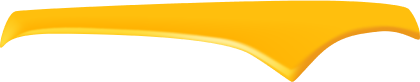
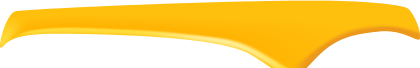
Make Your Burger 2st version edit pic paths

Changed region(s): [[0.0, 0.0, 1.0, 1.0]]

diff --git a/index.js b/index.js
@@ -368,15 +368,15 @@ cssStyle("body section.container",
     border-radius:30px;
 
     `)
-    addImg("/images/orderimages/cutiet.png","cutiet",1,"body section.container .secOrder div.order:nth-child(1)")
-    addImg("/images/orderimages/mayo.png","mayo",1,"body section.container .secOrder div.order:nth-child(2)")
-    addImg("/images/orderimages/onion.png","onion",1,"body section.container .secOrder div.order:nth-child(3)")
-    addImg("/images/orderimages/tomato.png","tomato",1,"body section.container .secOrder div.order:nth-child(4)")
-    addImg("/images/orderimages/cucumber.png","cucumber",1,"body section.container .secOrder div.order:nth-child(5)")
-    addImg("/images/orderimages/cheese.png","cheese",1,"body section.container .secOrder div.order:nth-child(6)")
-    addImg("/images/orderimages/salad.png","salad",1,"body section.container .secOrder div.order:nth-child(7)")
-    addImg("/images/orderimages/bun.png","bun",1,"body section.container .secOrder div.order:nth-child(8)")
-    addImg("/images/orderimages/bun2.png","bun2",1,"body section.container .secOrder div.order:nth-child(9)")
+    addImg("images/orderimages/cutiet.png","cutiet",1,"body section.container .secOrder div.order:nth-child(1)")
+    addImg("images/orderimages/mayo.png","mayo",1,"body section.container .secOrder div.order:nth-child(2)")
+    addImg("images/orderimages/onion.png","onion",1,"body section.container .secOrder div.order:nth-child(3)")
+    addImg("images/orderimages/tomato.png","tomato",1,"body section.container .secOrder div.order:nth-child(4)")
+    addImg("images/orderimages/cucumber.png","cucumber",1,"body section.container .secOrder div.order:nth-child(5)")
+    addImg("images/orderimages/cheese.png","cheese",1,"body section.container .secOrder div.order:nth-child(6)")
+    addImg("images/orderimages/salad.png","salad",1,"body section.container .secOrder div.order:nth-child(7)")
+    addImg("images/orderimages/bun.png","bun",1,"body section.container .secOrder div.order:nth-child(8)")
+    addImg("images/orderimages/bun2.png","bun2",1,"body section.container .secOrder div.order:nth-child(9)")
     cssStyle("body section.container .secOrder div.order img",`
     width:70px;
     height:25px;
